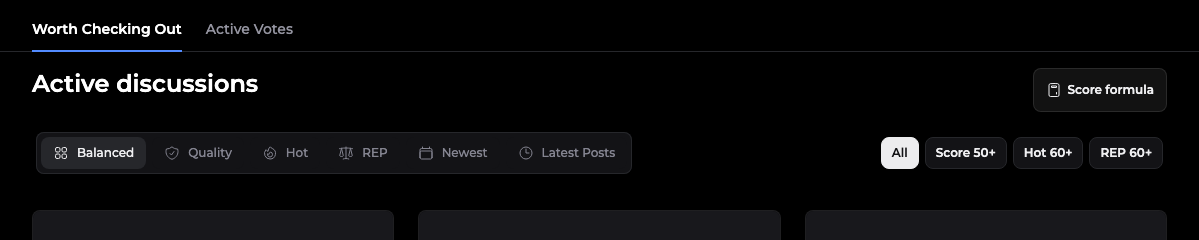
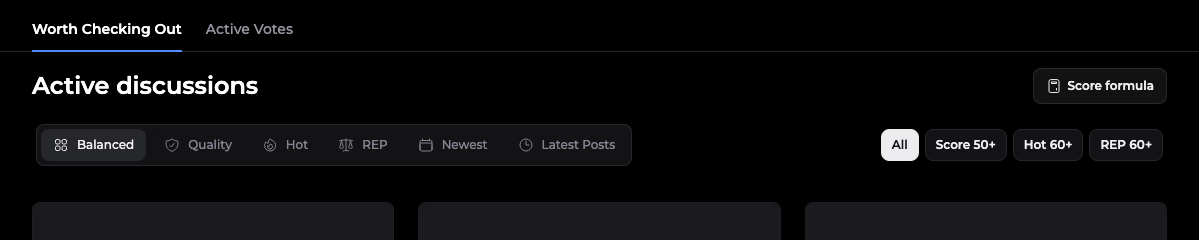
Centre the compact score formula button beside the heading

diff --git a/components/home/explore-waves/ExploreWavesSection.tsx b/components/home/explore-waves/ExploreWavesSection.tsx
@@ -180,7 +180,7 @@ export function ExploreWavesSection({
         <div className={headerClassName}>
           <div className={titleClassName}>
             {headingVariant === "page" ? (
-              <div className="tw-flex tw-min-w-0 tw-items-start tw-justify-between tw-gap-3 tw-@container/discovery-heading">
+              <div className="tw-flex tw-min-w-0 tw-items-center tw-justify-between tw-gap-3 tw-@container/discovery-heading">
                 <h1 className="tw-m-0 tw-min-w-0 tw-text-2xl tw-font-semibold tw-leading-8 tw-text-white">
                   {effectiveTitle}
                 </h1>

diff --git a/components/waves/discovery/DiscoverWaveControls.tsx b/components/waves/discovery/DiscoverWaveControls.tsx
@@ -113,9 +113,9 @@ export function ScoreFormulaLink() {
       <ButtonLink
         href="/network/wave-score"
         variant="secondary"
-        size={null}
+        size="sm"
         aria-label={label}
-        className="tw-min-h-11 tw-min-w-11 tw-px-3 tw-text-xs motion-reduce:tw-transition-none"
+        className="motion-reduce:tw-transition-none"
       >
         <CalculatorIcon className="tw-size-4 tw-shrink-0" aria-hidden="true" />
         <span className="tw-hidden @[36rem]/discovery-heading:tw-inline">
